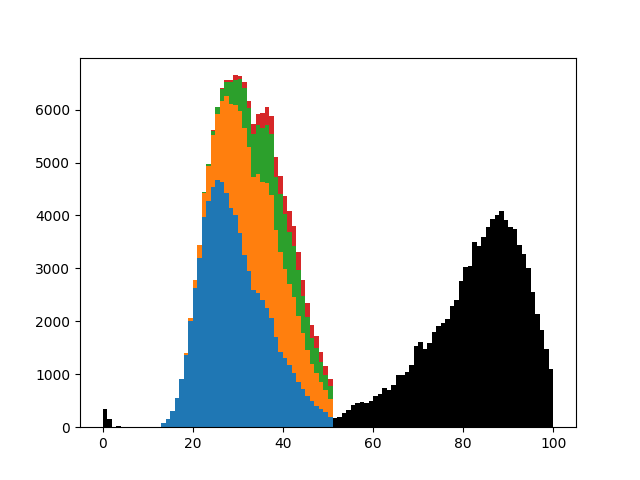
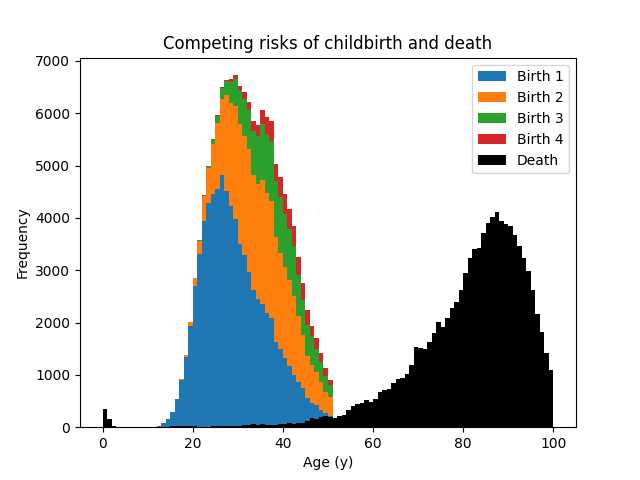
more tidy

diff --git a/examples/competing/people.py b/examples/competing/people.py
@@ -1,15 +1,16 @@
 
 import numpy as np
 import pandas as pd
-from matplotlib import pyplot as plt
-import neworder
+import neworder as no
 import ethpop
 
-class People(neworder.Model):
+class People(no.Model):
   """ A simple aggregration of Persons each represented as a row in a data frame """
-  def __init__(self, timeline, fertility_hazard_file, mortality_hazard_file, lad, ethnicity, n):
+  def __init__(self, dt, fertility_hazard_file, mortality_hazard_file, lad, ethnicity, n):
 
-    super().__init__(timeline, neworder.MonteCarlo.deterministic_identical_stream)
+    super().__init__(no.Timeline.null(), no.MonteCarlo.deterministic_identical_stream)
+
+    self.dt = dt # time resolution of fertility/mortality data
 
     # initialise cohort
     # filter by location, ethnicity and gender
@@ -26,53 +27,22 @@ class People(neworder.Model):
     # store the largest age we have a rate for
     self.max_rate_age = int(max(self.mortality_hazard.DC1117EW_C_AGE) - 1)
 
-    #neworder.log(self.mortality_hazard.head())
     self.population = pd.DataFrame(data={"Parity": np.zeros(n, dtype=int),
-                                         "TimeOfBaby1": neworder.time.far_future(),
-                                         "TimeOfDeath": np.zeros(n, dtype=float)})
+                                         "TimeOfDeath": no.time.far_future()})
 
   def step(self):
-    self.age()
+    self.population["TimeOfDeath"] = self.mc().first_arrival(self.mortality_hazard.Rate.values, self.dt, len(self.population))
 
-  def checkpoint(self):
-    self.stats()
-    self.plot()
+    births = self.mc().arrivals(self.fertility_hazard.Rate.values, self.dt, 0.75, len(self.population))
 
-  def plot(self):
-    buckets = range(50)
-
-    # add some time on the end to capture (most of) those who die over the max simulation age
-    #plt.hist(self.population.TimeOfDeath, buckets, color='black')
-
-    b = [ self.population.TimeOfBaby1[~np.isnan(self.population.TimeOfBaby1)],
-          self.population.TimeOfBaby2[~np.isnan(self.population.TimeOfBaby2)],
-          self.population.TimeOfBaby3[~np.isnan(self.population.TimeOfBaby3)],
-          self.population.TimeOfBaby4[~np.isnan(self.population.TimeOfBaby4)] ]
-    plt.hist(b, buckets, stacked=True)
-    #plt.savefig("./doc/examples/img/competing_hist_100k.png")
-    plt.legend(["Birth 1", "Birth 2", "Birth 3", "Birth 4"])
-    plt.xlabel("Age (y)")
-    plt.ylabel("Frequency")
-    plt.show()
-
-  def age(self):
-    self.population["TimeOfDeath"] = self.mc().first_arrival(self.mortality_hazard.Rate.values, 1.0, len(self.population))
-
-    #neworder.timeline.dt()
-    births = self.mc().arrivals(self.fertility_hazard.Rate.values, 1.0, 0.75, len(self.population))
-
-    #neworder.log(births)
+    # the number of columns is governed by the maximum number of arrivals in the births data 
     for i in range(births.shape[1]):
       col = "TimeOfBaby" + str(i+1)
       self.population[col] = births[:,i]
       # remove births that would have occured after death
-      self.population.loc[self.population[col] > self.population.TimeOfDeath, col] = neworder.time.never()
-      self.population.Parity = self.population.Parity + ~np.isnan(self.population[col])
+      self.population.loc[self.population[col] > self.population.TimeOfDeath, col] = no.time.never()
+      self.population.Parity = self.population.Parity + ~no.time.isnever(self.population[col].values)
 
-
-  def stats(self):
-    # # compute mean
-    neworder.log("birth rate = %f" % np.mean(self.population.Parity))
-    neworder.log("pct mother = %f" % (100.0 * np.mean(self.population.Parity > 0)))
-    neworder.log("life exp. = %f" % np.mean(self.population.TimeOfDeath))
-    #return True
+  def checkpoint(self):
+    # nothing more to do
+    pass

diff --git a/examples/competing/visualise.py b/examples/competing/visualise.py
@@ -1,0 +1,26 @@
+import numpy as np
+from matplotlib import pyplot as plt
+import neworder as no
+
+def plot(model):
+  buckets = range(model.max_rate_age)
+
+  b = [ model.population.TimeOfBaby1[~np.isnan(model.population.TimeOfBaby1)],
+        model.population.TimeOfBaby2[~np.isnan(model.population.TimeOfBaby2)],
+        model.population.TimeOfBaby3[~np.isnan(model.population.TimeOfBaby3)],
+        model.population.TimeOfBaby4[~np.isnan(model.population.TimeOfBaby4)] ]
+  plt.hist(b, buckets, stacked=True)
+  plt.hist(model.population.TimeOfDeath, buckets, color='black')
+  plt.title("Competing risks of childbirth and death")
+  plt.legend(["Birth 1", "Birth 2", "Birth 3", "Birth 4", "Death"])
+  plt.xlabel("Age (y)")
+  plt.ylabel("Frequency")
+  #plt.savefig("./docs/examples/img/competing_hist_100k.png")
+  plt.show()
+
+def stats(model):
+  # # compute mean
+  no.log("birth rate = %f" % np.mean(model.population.Parity))
+  no.log("pct mother = %f" % (100.0 * np.mean(model.population.Parity > 0)))
+  no.log("life exp. = %f" % np.mean(model.population.TimeOfDeath))
+  #return True

diff --git a/src/lib/Error.h b/src/lib/Error.h
@@ -1,39 +1,24 @@
 #include <stdexcept>
 
-#include <pybind11/pybind11.h>
+#include <string>
 
 namespace no {
 
+// error that gets translated to a python NotImplementedError
 class NotImplementedError : public std::exception
 {
 public:
   explicit NotImplementedError(const char* msg): m_msg(msg) { }
   explicit NotImplementedError(const std::string& msg): m_msg(msg) { }
-  virtual ~NotImplementedError() throw () { }
+  virtual ~NotImplementedError() noexcept { }
 
-  virtual const char* what() const throw ()
-  {
-    return m_msg.c_str();
-  } 
-
+  virtual const char* what() const noexcept;
+  
 private:
   std::string m_msg;
 };
 
-
 // map error types defined here to python exceptions
-inline void exception_translator(std::exception_ptr p) 
-{
-  try 
-  {
-    if (p) std::rethrow_exception(p);
-  } 
-  catch (const no::NotImplementedError& e) 
-  {
-    PyErr_SetString(PyExc_NotImplementedError, e.what());
-  }
-};
-
-
+void exception_translator(std::exception_ptr p);
 
 }

diff --git a/examples/competing/model.py b/examples/competing/model.py
@@ -5,11 +5,13 @@ import neworder
 
 from people import People
 
+from visualise import stats, plot
+
 neworder.verbose()
 
-# This is case-based model so no timeline is required...
+# This is a continuous-time case-based model so no timeline is required...
 # ... but we do need a delta-t between entries in fertility/mortality data
-timeline = neworder.Timeline.null()
+dt = 1.0 # years
 
 # Choose a simple linearly increasing mortality rate: 0.1% aged 0 to 2.5% aged 100
 fertility_hazard_file = "examples/shared/NewETHPOP_fertility.csv"
@@ -18,6 +20,10 @@ population_size = 100000
 lad = "E09000030"
 ethnicity = "WBI"
 
-pop = People(timeline, fertility_hazard_file, mortality_hazard_file, lad, ethnicity, population_size)
+pop = People(dt, fertility_hazard_file, mortality_hazard_file, lad, ethnicity, population_size)
 
 neworder.run(pop)
+
+# visualise
+plot(pop)
+stats(pop)

diff --git a/src/lib/Error.cpp b/src/lib/Error.cpp
@@ -1,0 +1,21 @@
+#include "Error.h"
+#include <pybind11/pybind11.h>
+
+const char* no::NotImplementedError::what() const noexcept
+{
+  return m_msg.c_str();
+} 
+
+
+// map error types defined here to python exceptions
+void no::exception_translator(std::exception_ptr p) 
+{
+  try 
+  {
+    if (p) std::rethrow_exception(p);
+  } 
+  catch (const no::NotImplementedError& e) 
+  {
+    PyErr_SetString(PyExc_NotImplementedError, e.what());
+  }
+};

diff --git a/docs/developer.md b/docs/developer.md
@@ -12,7 +12,7 @@ The original embedded configuration is still provided (on linux platforms only).
 
 ## Repo
 
-The source code [is here](https://github.org/virgesmith/neworder).
+The source code is on [github](https://github.com/virgesmith/neworder).
 
 ## Dependencies
 
